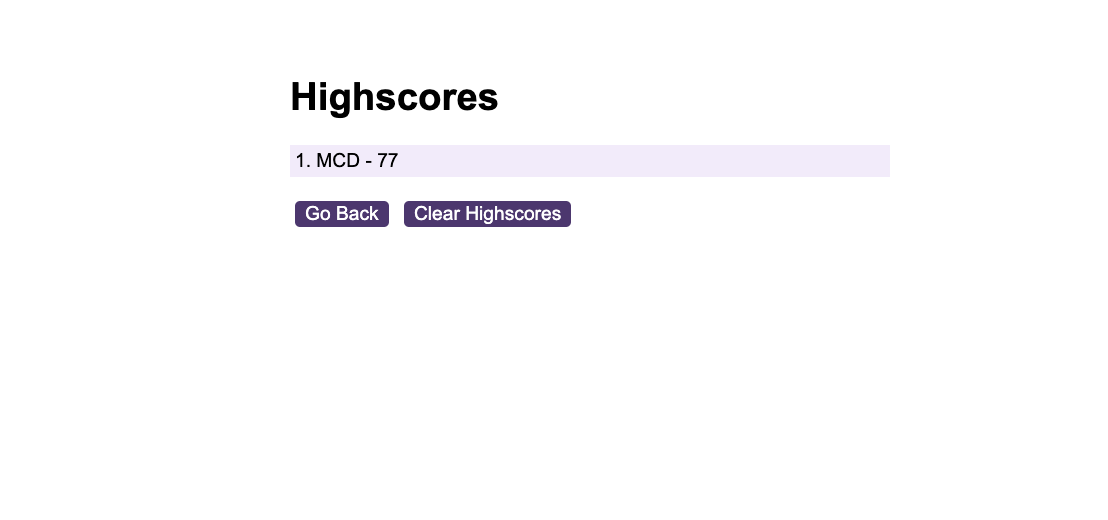
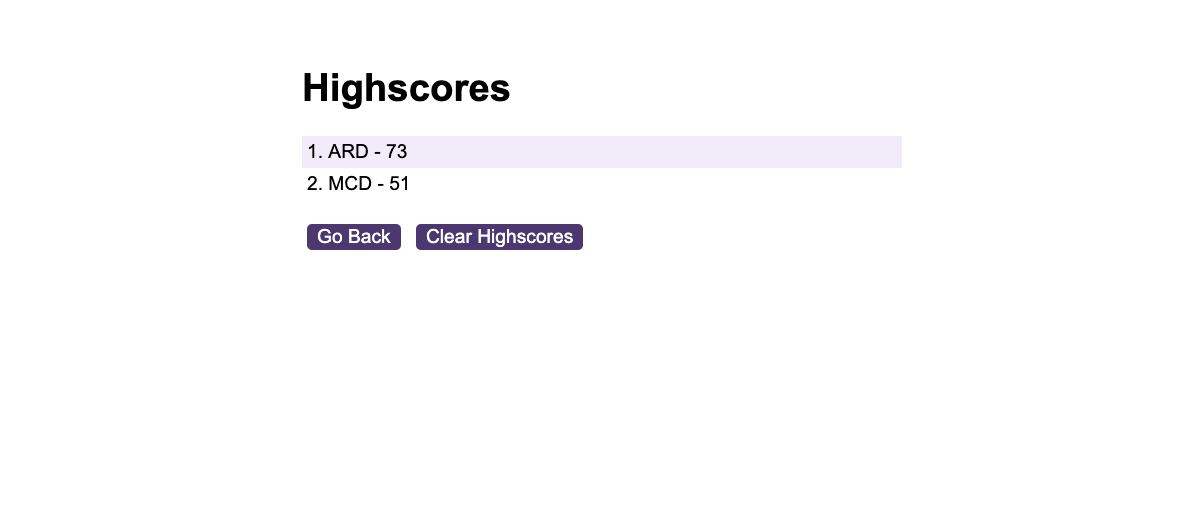
sorted high scores by score and updates a screenshot for the readmr

Changed region(s): [[0.2455, 0.2769, 0.5217, 0.4923], [0.2455, 0.1231, 0.4603, 0.2154]]

diff --git a/assets/js/logic.js b/assets/js/logic.js
@@ -26,6 +26,9 @@ const questions = [
   }
 ]
 
+// fetch the users array from local storage or or create an empty array
+let users = JSON.parse(localStorage.getItem("users") || "[]");
+
 const startScreen = document.querySelector('#start-screen');
 const endScreen = document.querySelector('#end-screen');
 const timer = document.querySelector('#time');
@@ -122,7 +125,7 @@ function endGame() {
   finalScore.textContent = `${time} seconds`
   clearInterval(interval);
   timer.textContent = time;
-  localStorage.setItem('score', time);
+  //localStorage.setItem('score', time);
 }
 
 enterInitialsSubmitButton.addEventListener('click', () => {
@@ -138,6 +141,32 @@ enterInitialsSubmitButton.addEventListener('click', () => {
     return;
   }
 
-  localStorage.setItem('initials', enterInitialsInput.value);
+  users.push({initials: enterInitialsInput.value, score: time});
+  localStorage.setItem("users", JSON.stringify(users));
+
+  console.log(users);
+
+  // localStorage.setItem('initials', enterInitialsInput.value);
+  // localStorage.setItem('score', time);
   window.location.href = "highscores.html";
 })
+
+// const highScoresContainer = document.querySelector('#highscores');
+// const clearScoresButton = document.querySelector('#clear');
+// let li = document.createElement('li');
+
+// if (localStorage.getItem(users.length)) {
+//   users.forEach(user => {
+//     li.textContent = localStorage.getItem(users.initials) + ' - ' + localStorage.getItem(users.score);
+//     highScoresContainer.append(li);
+//   });
+// }
+
+// clearScoresButton.addEventListener('click', () => {
+//   if (localStorage.getItem(users.length)) {
+//     localStorage.clear();
+//     highScoresContainer.removeChild(li);
+//   }
+// })
+
+//console.log('users: ' + users[3].initials);

diff --git a/assets/js/scores.js b/assets/js/scores.js
@@ -1,13 +1,22 @@
+let users = JSON.parse(localStorage.getItem("users") || "[]");
+
 const highScoresContainer = document.querySelector('#highscores');
 const clearScoresButton = document.querySelector('#clear');
-let li = document.createElement('li');
 
-if (localStorage.getItem('initials') && localStorage.getItem('score')) {
-  li.textContent = localStorage.getItem('initials') + ' - ' + localStorage.getItem('score');
-  highScoresContainer.append(li);
+// if (localStorage.getItem('initials') && localStorage.getItem('score')) {
+if (users.length) {
+  // sort the users by their score
+  users.sort((a, b) => (a.time > b.time) ? 1 : -1);
+  users.forEach(user => {
+    let li = document.createElement('li');
+    li.textContent = user.initials + ' - ' + user.score;
+    highScoresContainer.append(li);
+  });
 }
 
 clearScoresButton.addEventListener('click', () => {
-  localStorage.clear();
-  highScoresContainer.removeChild(li);
+    localStorage.clear();
+    highScoresContainer.innerHTML = "";
 })
+
+console.log(users.length);
